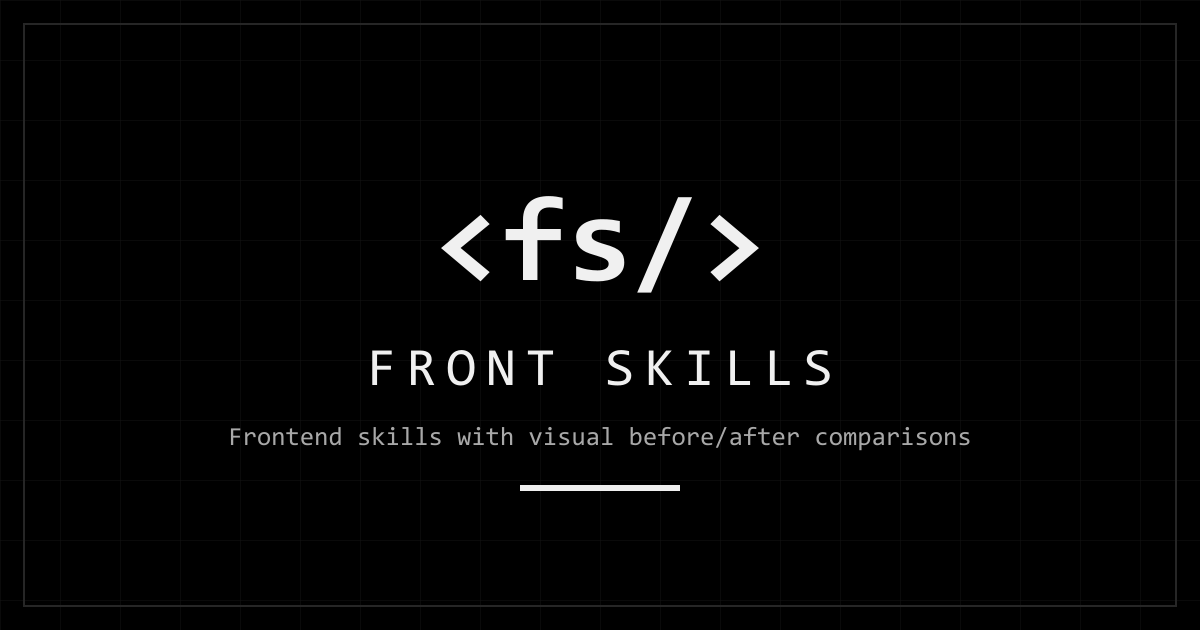
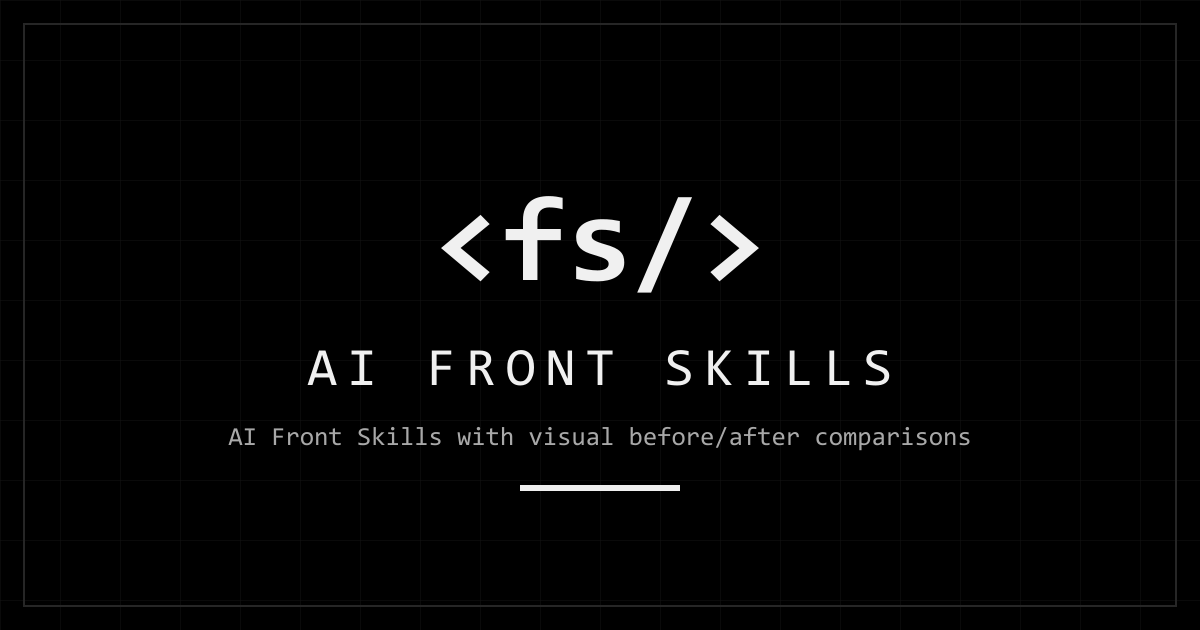
feat(site): webp comparisons, per-skill installs, AI Front Skills rebrand

Changed region(s): [[0.2467, 0.5429, 0.74, 0.6333], [0.185, 0.6635, 0.3083, 0.7238]]

diff --git a/src/lib/skills.ts b/src/lib/skills.ts
@@ -140,8 +140,8 @@ export function getComparisonCases(slug: string): ComparisonCase[] {
       return {
         id: c.id,
         label: c.label,
-        before: `/comparisons/${slug}/${c.id}/before.png`,
-        after: `/comparisons/${slug}/${c.id}/after.png`,
+        before: `/comparisons/${slug}/${c.id}/before.webp`,
+        after: `/comparisons/${slug}/${c.id}/after.webp`,
         width: c.viewport.width,
         height: c.viewport.height,
         demoBefore: `/showcase/${slug}/${src}/before.html`,
@@ -263,6 +263,23 @@ export function getAvatarUrl(author: string, size = 80): string {
   const clean = handle.replace(/^@/, '');
   if (!/^[a-z0-9](?:[a-z0-9-]{0,37}[a-z0-9])?$/.test(clean)) return '';
   return `https://github.com/${clean}.png?size=${size}`;
+}
+
+/**
+ * Upstream install reference per skill (appended to `skills add` commands).
+ * Falls back to the legacy `front-skills@<slug>` ref for skills without one.
+ */
+const INSTALL_REFS: Record<string, string> = {
+  'frontend-design': 'https://github.com/anthropics/skills --skill frontend-design',
+  'ui-ux-pro-max': 'https://github.com/nextlevelbuilder/ui-ux-pro-max-skill --skill ui-ux-pro-max',
+  'web-design-guidelines': 'https://github.com/vercel-labs/agent-skills --skill web-design-guidelines',
+};
+
+/**
+ * Install reference for a skill slug (used by InstallTabs on detail pages).
+ */
+export function getInstallRef(slug: string): string {
+  return INSTALL_REFS[slug] ?? `front-skills@${slug}`;
 }
 
 /**

diff --git a/demos/frontend-design/hair-salon/before.html b/demos/frontend-design/hair-salon/before.html
@@ -392,7 +392,7 @@
           <a href="#services">Services</a>
           <a href="#about">About</a>
           <a href="#gallery">Gallery</a>
-          <a href="#prices">Prices</a>
+          <a href="#pricing">Prices</a>
           <a href="#contact">Contact</a>
         </nav>
       </div>
@@ -502,7 +502,7 @@
         </div>
       </section>
 
-      <section class="section" id="prices">
+      <section class="section" id="pricing">
         <div class="container">
           <div class="section-heading">
             <span class="eyebrow">Prices</span>

diff --git a/demos/README.md b/demos/README.md
@@ -13,7 +13,7 @@ demos/
 ```
 
 Screenshots are generated from these files into
-`public/comparisons/<skill-slug>/<case-id>/{before,after}.png`
+`public/comparisons/<skill-slug>/<case-id>/{before,after}.webp`
 and wired through `src/data/comparisons.json` + the skill's `comparisons` array
 in `src/data/registry-skills.json`. The detail page renders one slider per case;
 skills with `"comparisons": []` show no slider and a dimmed icon on cards.
@@ -46,8 +46,9 @@ skills with `"comparisons": []` show no slider and a dimmed icon on cards.
    ```sh
    node scripts/capture-comparisons.mjs --case=<case-id>
    ```
-   Re-run without flags to capture any missing/outdated case, or with `--force`
-   to recapture everything. The script skips PNGs newer than their sources.
+    Re-run without flags to capture any missing/outdated case, or with `--force`
+    to recapture everything. The script skips WebPs newer than their sources
+    (captures as PNG, then optimizes to WebP with sharp — no PNGs committed).
 
 6. **Full-page routes are automatic.** `src/pages/showcase/[...path].ts` serves
    `/showcase/<skill>/<source>/{before,after}.html` for every manifest source
@@ -56,8 +57,8 @@ skills with `"comparisons": []` show no slider and a dimmed icon on cards.
 
 ## Rules
 
-- Never edit a generated PNG by hand — fix the HTML and re-run the script.
-- Never commit a case without both PNGs: `getComparisonCases()` in
-  `src/lib/skills.ts` only exposes cases whose PNGs exist on disk.
+- Never edit a generated WebP by hand — fix the HTML and re-run the script.
+- Never commit a case without both WebPs: `getComparisonCases()` in
+  `src/lib/skills.ts` only exposes cases whose WebPs exist on disk.
 - One viewport per case; if a later case needs another size, the script
   re-resizes the browser automatically.

diff --git a/README.md b/README.md
@@ -1,4 +1,4 @@
-# Front Skills
+# AI Front Skills
 
 A skills registry website built with Astro 7, featuring visual before/after comparisons for frontend development skills.
 
